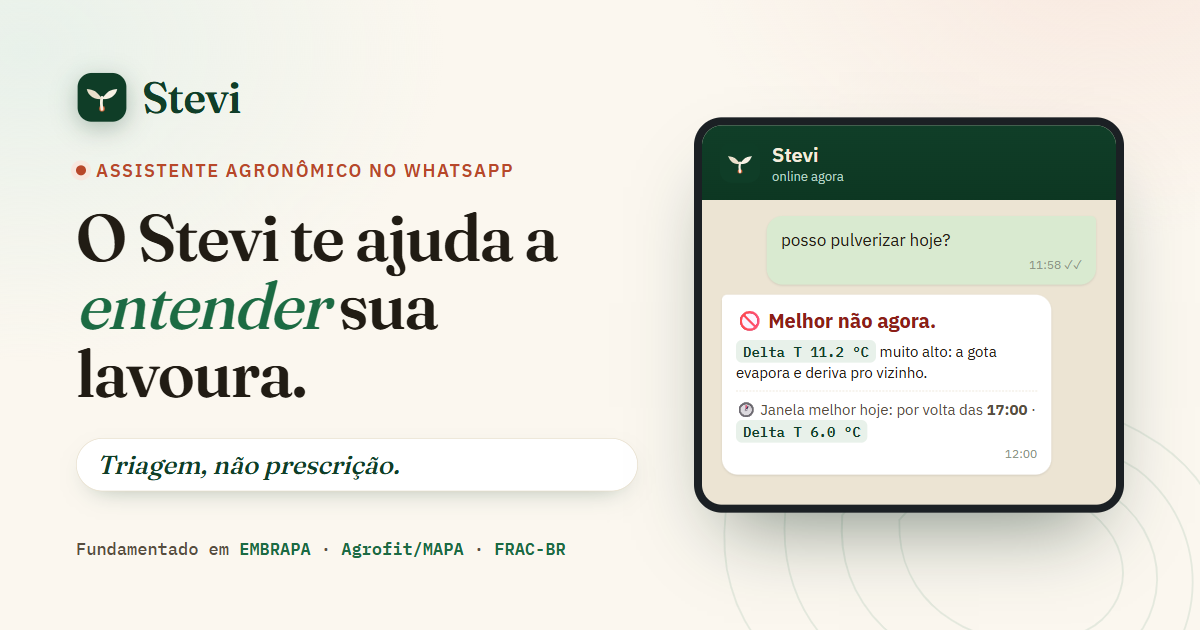
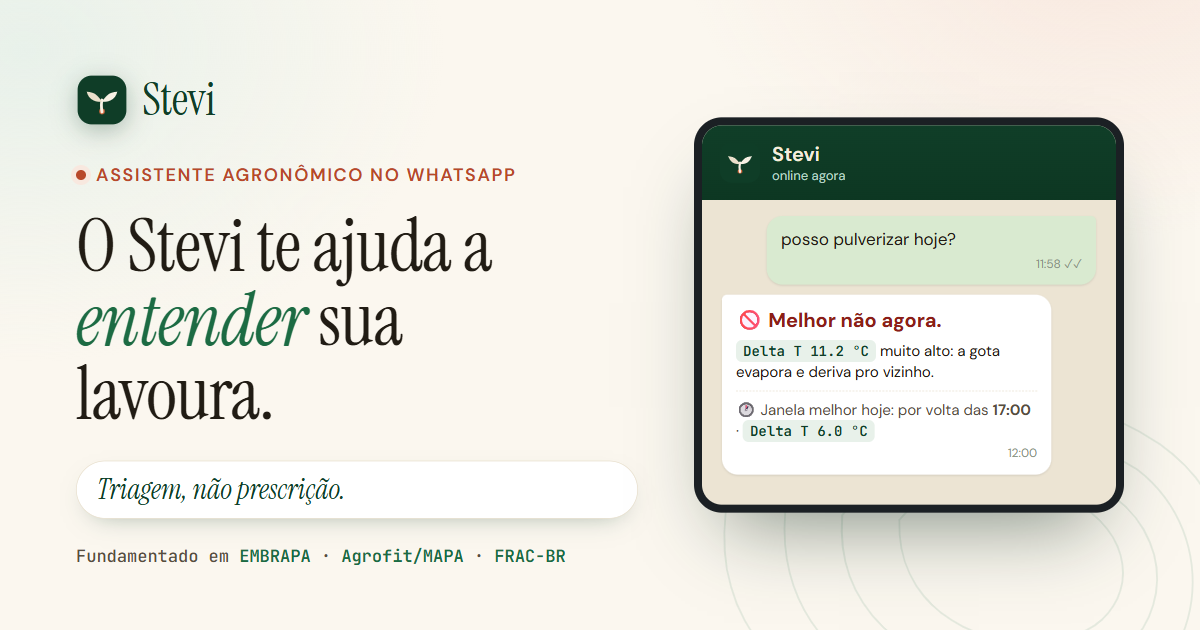
style: match seatable.one typography (Instrument Serif + DM Sans + JetBrains Mono)
Swapped the landing fonts from Fraunces/IBM Plex to seatable.one's exact stack:
Instrument Serif (display, weight 400 only — font-synthesis:none to prevent
faux-bold, the light serif at display sizes IS the look), DM Sans (body),
JetBrains Mono (data readouts). Re-rendered og-image.png to match. Rebuilt public/.

diff --git a/public/styles.css b/public/styles.css
@@ -2,7 +2,7 @@
    Stevi — landing page styles
    Design system: "Terra e Folha" — earthy, rooted, modern, honest.
    Palette: deep leaf green + Latossolo terracotta on warm bone.
-   Type: Fraunces (display) + IBM Plex Sans (UI) + IBM Plex Mono (data).
+   Type: Instrument Serif (display) + DM Sans (UI) + JetBrains Mono (data) — matches seatable.one.
    ========================================================================= */
 
 /* ---- Tokens ---------------------------------------------------------- */
@@ -44,9 +44,9 @@
   --bubble-meta: #8A9384;
 
   /* Fonts */
-  --font-display: 'Fraunces', Georgia, 'Times New Roman', serif;
-  --font-sans: 'IBM Plex Sans', system-ui, -apple-system, 'Segoe UI', Roboto, sans-serif;
-  --font-mono: 'IBM Plex Mono', ui-monospace, 'SF Mono', Menlo, monospace;
+  --font-display: 'Instrument Serif', Georgia, 'Times New Roman', serif;
+  --font-sans: 'DM Sans', system-ui, -apple-system, 'Segoe UI', Roboto, sans-serif;
+  --font-mono: 'JetBrains Mono', ui-monospace, 'SF Mono', Menlo, monospace;
 
   /* Spacing (8px grid) */
   --s1: .25rem; --s2: .5rem; --s3: .75rem; --s4: 1rem;
@@ -110,12 +110,15 @@ button { font: inherit; }
 .skip-link:focus { top: 0; }
 
 /* ---- Typography ------------------------------------------------------ */
-h1, h2, h3 { font-family: var(--font-display); font-weight: 600; line-height: 1.08; letter-spacing: -0.015em; color: var(--ink); }
-h1 { font-size: clamp(2.35rem, 6vw, 4.25rem); font-weight: 600; }
-h1 em { font-style: italic; color: var(--green); font-weight: 500; }
-h2 { font-size: clamp(1.8rem, 4vw, 2.85rem); }
+h1, h2, h3 { font-family: var(--font-display); font-weight: 400; line-height: 1.06; letter-spacing: -0.01em; color: var(--ink); }
+h1 { font-size: clamp(2.5rem, 6.4vw, 4.6rem); }
+h1 em { font-style: italic; color: var(--green); }
+h2 { font-size: clamp(1.9rem, 4vw, 3rem); }
 h2 em { font-style: italic; color: var(--terra); }
 h3 { font-size: 1.2rem; font-family: var(--font-sans); font-weight: 700; letter-spacing: -0.01em; }
+/* Instrument Serif ships weight 400 only — never let the browser faux-bold it
+   (the light serif at display sizes IS the look, per seatable.one). */
+h1, h2, .brand__word, .step__num, .quote-bubble p, .site-footer__tagline { font-synthesis: none; }
 p { text-wrap: pretty; }
 strong { font-weight: 600; }
 

diff --git a/web/styles.css b/web/styles.css
@@ -2,7 +2,7 @@
    Stevi — landing page styles
    Design system: "Terra e Folha" — earthy, rooted, modern, honest.
    Palette: deep leaf green + Latossolo terracotta on warm bone.
-   Type: Fraunces (display) + IBM Plex Sans (UI) + IBM Plex Mono (data).
+   Type: Instrument Serif (display) + DM Sans (UI) + JetBrains Mono (data) — matches seatable.one.
    ========================================================================= */
 
 /* ---- Tokens ---------------------------------------------------------- */
@@ -44,9 +44,9 @@
   --bubble-meta: #8A9384;
 
   /* Fonts */
-  --font-display: 'Fraunces', Georgia, 'Times New Roman', serif;
-  --font-sans: 'IBM Plex Sans', system-ui, -apple-system, 'Segoe UI', Roboto, sans-serif;
-  --font-mono: 'IBM Plex Mono', ui-monospace, 'SF Mono', Menlo, monospace;
+  --font-display: 'Instrument Serif', Georgia, 'Times New Roman', serif;
+  --font-sans: 'DM Sans', system-ui, -apple-system, 'Segoe UI', Roboto, sans-serif;
+  --font-mono: 'JetBrains Mono', ui-monospace, 'SF Mono', Menlo, monospace;
 
   /* Spacing (8px grid) */
   --s1: .25rem; --s2: .5rem; --s3: .75rem; --s4: 1rem;
@@ -110,12 +110,15 @@ button { font: inherit; }
 .skip-link:focus { top: 0; }
 
 /* ---- Typography ------------------------------------------------------ */
-h1, h2, h3 { font-family: var(--font-display); font-weight: 600; line-height: 1.08; letter-spacing: -0.015em; color: var(--ink); }
-h1 { font-size: clamp(2.35rem, 6vw, 4.25rem); font-weight: 600; }
-h1 em { font-style: italic; color: var(--green); font-weight: 500; }
-h2 { font-size: clamp(1.8rem, 4vw, 2.85rem); }
+h1, h2, h3 { font-family: var(--font-display); font-weight: 400; line-height: 1.06; letter-spacing: -0.01em; color: var(--ink); }
+h1 { font-size: clamp(2.5rem, 6.4vw, 4.6rem); }
+h1 em { font-style: italic; color: var(--green); }
+h2 { font-size: clamp(1.9rem, 4vw, 3rem); }
 h2 em { font-style: italic; color: var(--terra); }
 h3 { font-size: 1.2rem; font-family: var(--font-sans); font-weight: 700; letter-spacing: -0.01em; }
+/* Instrument Serif ships weight 400 only — never let the browser faux-bold it
+   (the light serif at display sizes IS the look, per seatable.one). */
+h1, h2, .brand__word, .step__num, .quote-bubble p, .site-footer__tagline { font-synthesis: none; }
 p { text-wrap: pretty; }
 strong { font-weight: 600; }
 

diff --git a/web/og-template.html b/web/og-template.html
@@ -5,7 +5,7 @@
   <!-- Source template for og-image.png (1200x630). Rendered headless; not linked from the site. -->
   <link rel="preconnect" href="https://fonts.googleapis.com" />
   <link rel="preconnect" href="https://fonts.gstatic.com" crossorigin />
-  <link href="https://fonts.googleapis.com/css2?family=Fraunces:opsz,wght@9..144,500;9..144,600&family=IBM+Plex+Mono:wght@500;600&family=IBM+Plex+Sans:wght@400;500;600;700&display=swap" rel="stylesheet" />
+  <link href="https://fonts.googleapis.com/css2?family=DM+Sans:opsz,wght@9..40,400;9..40,500;9..40,600;9..40,700&family=Instrument+Serif:ital@0;1&family=JetBrains+Mono:wght@500;600&display=swap" rel="stylesheet" />
   <style>
     :root{
       --bone:#FBF7EF; --ink:#211C14; --ink2:#574E3F;
@@ -16,7 +16,7 @@
     *{margin:0;box-sizing:border-box;}
     html,body{width:1200px;height:630px;}
     body{
-      font-family:'IBM Plex Sans',sans-serif; color:var(--ink); position:relative; overflow:hidden;
+      font-family:'DM Sans',sans-serif; color:var(--ink); position:relative; overflow:hidden;
       background:
         radial-gradient(700px 500px at 92% -10%, var(--terra-050), transparent 60%),
         radial-gradient(700px 520px at 2% 8%, var(--green-050), transparent 60%),
@@ -29,13 +29,13 @@
     .left{flex:1; position:relative; z-index:2; display:flex; flex-direction:column; height:100%;}
     .brand{display:flex; align-items:center; gap:14px; margin-bottom:34px;}
     .brand svg{filter:drop-shadow(0 6px 12px rgba(16,62,40,.3));}
-    .brand span{font-family:'Fraunces',serif; font-weight:600; font-size:44px; color:var(--green-deep); letter-spacing:-.02em;}
+    .brand span{font-family:'Instrument Serif',serif; font-weight:400; font-synthesis:none; font-size:46px; color:var(--green-deep); letter-spacing:-.01em;}
     .eyebrow{display:inline-flex; align-items:center; gap:10px; font-size:18px; font-weight:600; letter-spacing:.09em; text-transform:uppercase; color:var(--terra); margin-bottom:22px;}
     .eyebrow b{width:10px;height:10px;border-radius:50%;background:var(--terra);box-shadow:0 0 0 5px var(--terra-050);}
-    h1{font-family:'Fraunces',serif; font-weight:600; font-size:66px; line-height:1.03; letter-spacing:-.02em; max-width:15ch;}
-    h1 em{font-style:italic; color:var(--green); font-weight:500;}
-    .chip{display:inline-block; margin-top:30px; font-family:'Fraunces',serif; font-style:italic; font-size:26px; color:var(--green-deep); background:#fff; border:1px solid var(--line); padding:10px 20px; border-radius:999px; box-shadow:0 10px 26px -16px rgba(16,62,40,.5);}
-    .grounding{margin-top:auto; padding-top:26px; font-family:'IBM Plex Mono',monospace; font-size:17px; color:var(--ink2);}
+    h1{font-family:'Instrument Serif',serif; font-weight:400; font-synthesis:none; font-size:74px; line-height:1.0; letter-spacing:-.01em; max-width:15ch;}
+    h1 em{font-style:italic; color:var(--green);}
+    .chip{display:inline-block; margin-top:30px; font-family:'Instrument Serif',serif; font-synthesis:none; font-style:italic; font-size:28px; color:var(--green-deep); background:#fff; border:1px solid var(--line); padding:10px 20px; border-radius:999px; box-shadow:0 10px 26px -16px rgba(16,62,40,.5);}
+    .grounding{margin-top:auto; padding-top:26px; font-family:'JetBrains Mono',monospace; font-size:17px; color:var(--ink2);}
     .grounding b{color:var(--green);}
 
     .card{width:430px; flex:none; position:relative; z-index:2; background:#ECE4D3; border-radius:28px; padding:20px; box-shadow:0 40px 80px -30px rgba(10,40,26,.5); border:8px solid #1b2024;}
@@ -47,7 +47,7 @@
     .out{background:#D9EAD0; border-top-right-radius:5px; margin-left:auto;}
     .verdict{display:block; font-weight:700; font-size:20px; color:var(--nogo-ink); margin-bottom:6px;}
     .reason{font-size:15px; color:var(--ink);}
-    .data{font-family:'IBM Plex Mono',monospace; font-weight:600; font-size:14px; background:var(--green-050); color:var(--green-deep); padding:2px 7px; border-radius:6px;}
+    .data{font-family:'JetBrains Mono',monospace; font-weight:600; font-size:14px; background:var(--green-050); color:var(--green-deep); padding:2px 7px; border-radius:6px;}
     .win{font-size:15px; color:var(--ink2); margin-top:8px; padding-top:8px; border-top:1px dashed var(--line);}
     .meta{display:block; text-align:right; font-size:12px; color:#8A9384; margin-top:4px;}
   </style>

diff --git a/public/index.html b/public/index.html
@@ -31,7 +31,7 @@
   <!-- Fonts -->
   <link rel="preconnect" href="https://fonts.googleapis.com" />
   <link rel="preconnect" href="https://fonts.gstatic.com" crossorigin />
-  <link href="https://fonts.googleapis.com/css2?family=Fraunces:opsz,wght@9..144,400;9..144,500;9..144,600;9..144,700&family=IBM+Plex+Mono:wght@400;500;600&family=IBM+Plex+Sans:wght@400;500;600;700&display=swap" rel="stylesheet" />
+  <link href="https://fonts.googleapis.com/css2?family=DM+Sans:ital,opsz,wght@0,9..40,400;0,9..40,500;0,9..40,600;0,9..40,700;1,9..40,400&family=Instrument+Serif:ital@0;1&family=JetBrains+Mono:wght@400;500;600&display=swap" rel="stylesheet" />
 
   <link rel="stylesheet" href="styles.css" />
 

diff --git a/web/index.html b/web/index.html
@@ -31,7 +31,7 @@
   <!-- Fonts -->
   <link rel="preconnect" href="https://fonts.googleapis.com" />
   <link rel="preconnect" href="https://fonts.gstatic.com" crossorigin />
-  <link href="https://fonts.googleapis.com/css2?family=Fraunces:opsz,wght@9..144,400;9..144,500;9..144,600;9..144,700&family=IBM+Plex+Mono:wght@400;500;600&family=IBM+Plex+Sans:wght@400;500;600;700&display=swap" rel="stylesheet" />
+  <link href="https://fonts.googleapis.com/css2?family=DM+Sans:ital,opsz,wght@0,9..40,400;0,9..40,500;0,9..40,600;0,9..40,700;1,9..40,400&family=Instrument+Serif:ital@0;1&family=JetBrains+Mono:wght@400;500;600&display=swap" rel="stylesheet" />
 
   <link rel="stylesheet" href="styles.css" />
 